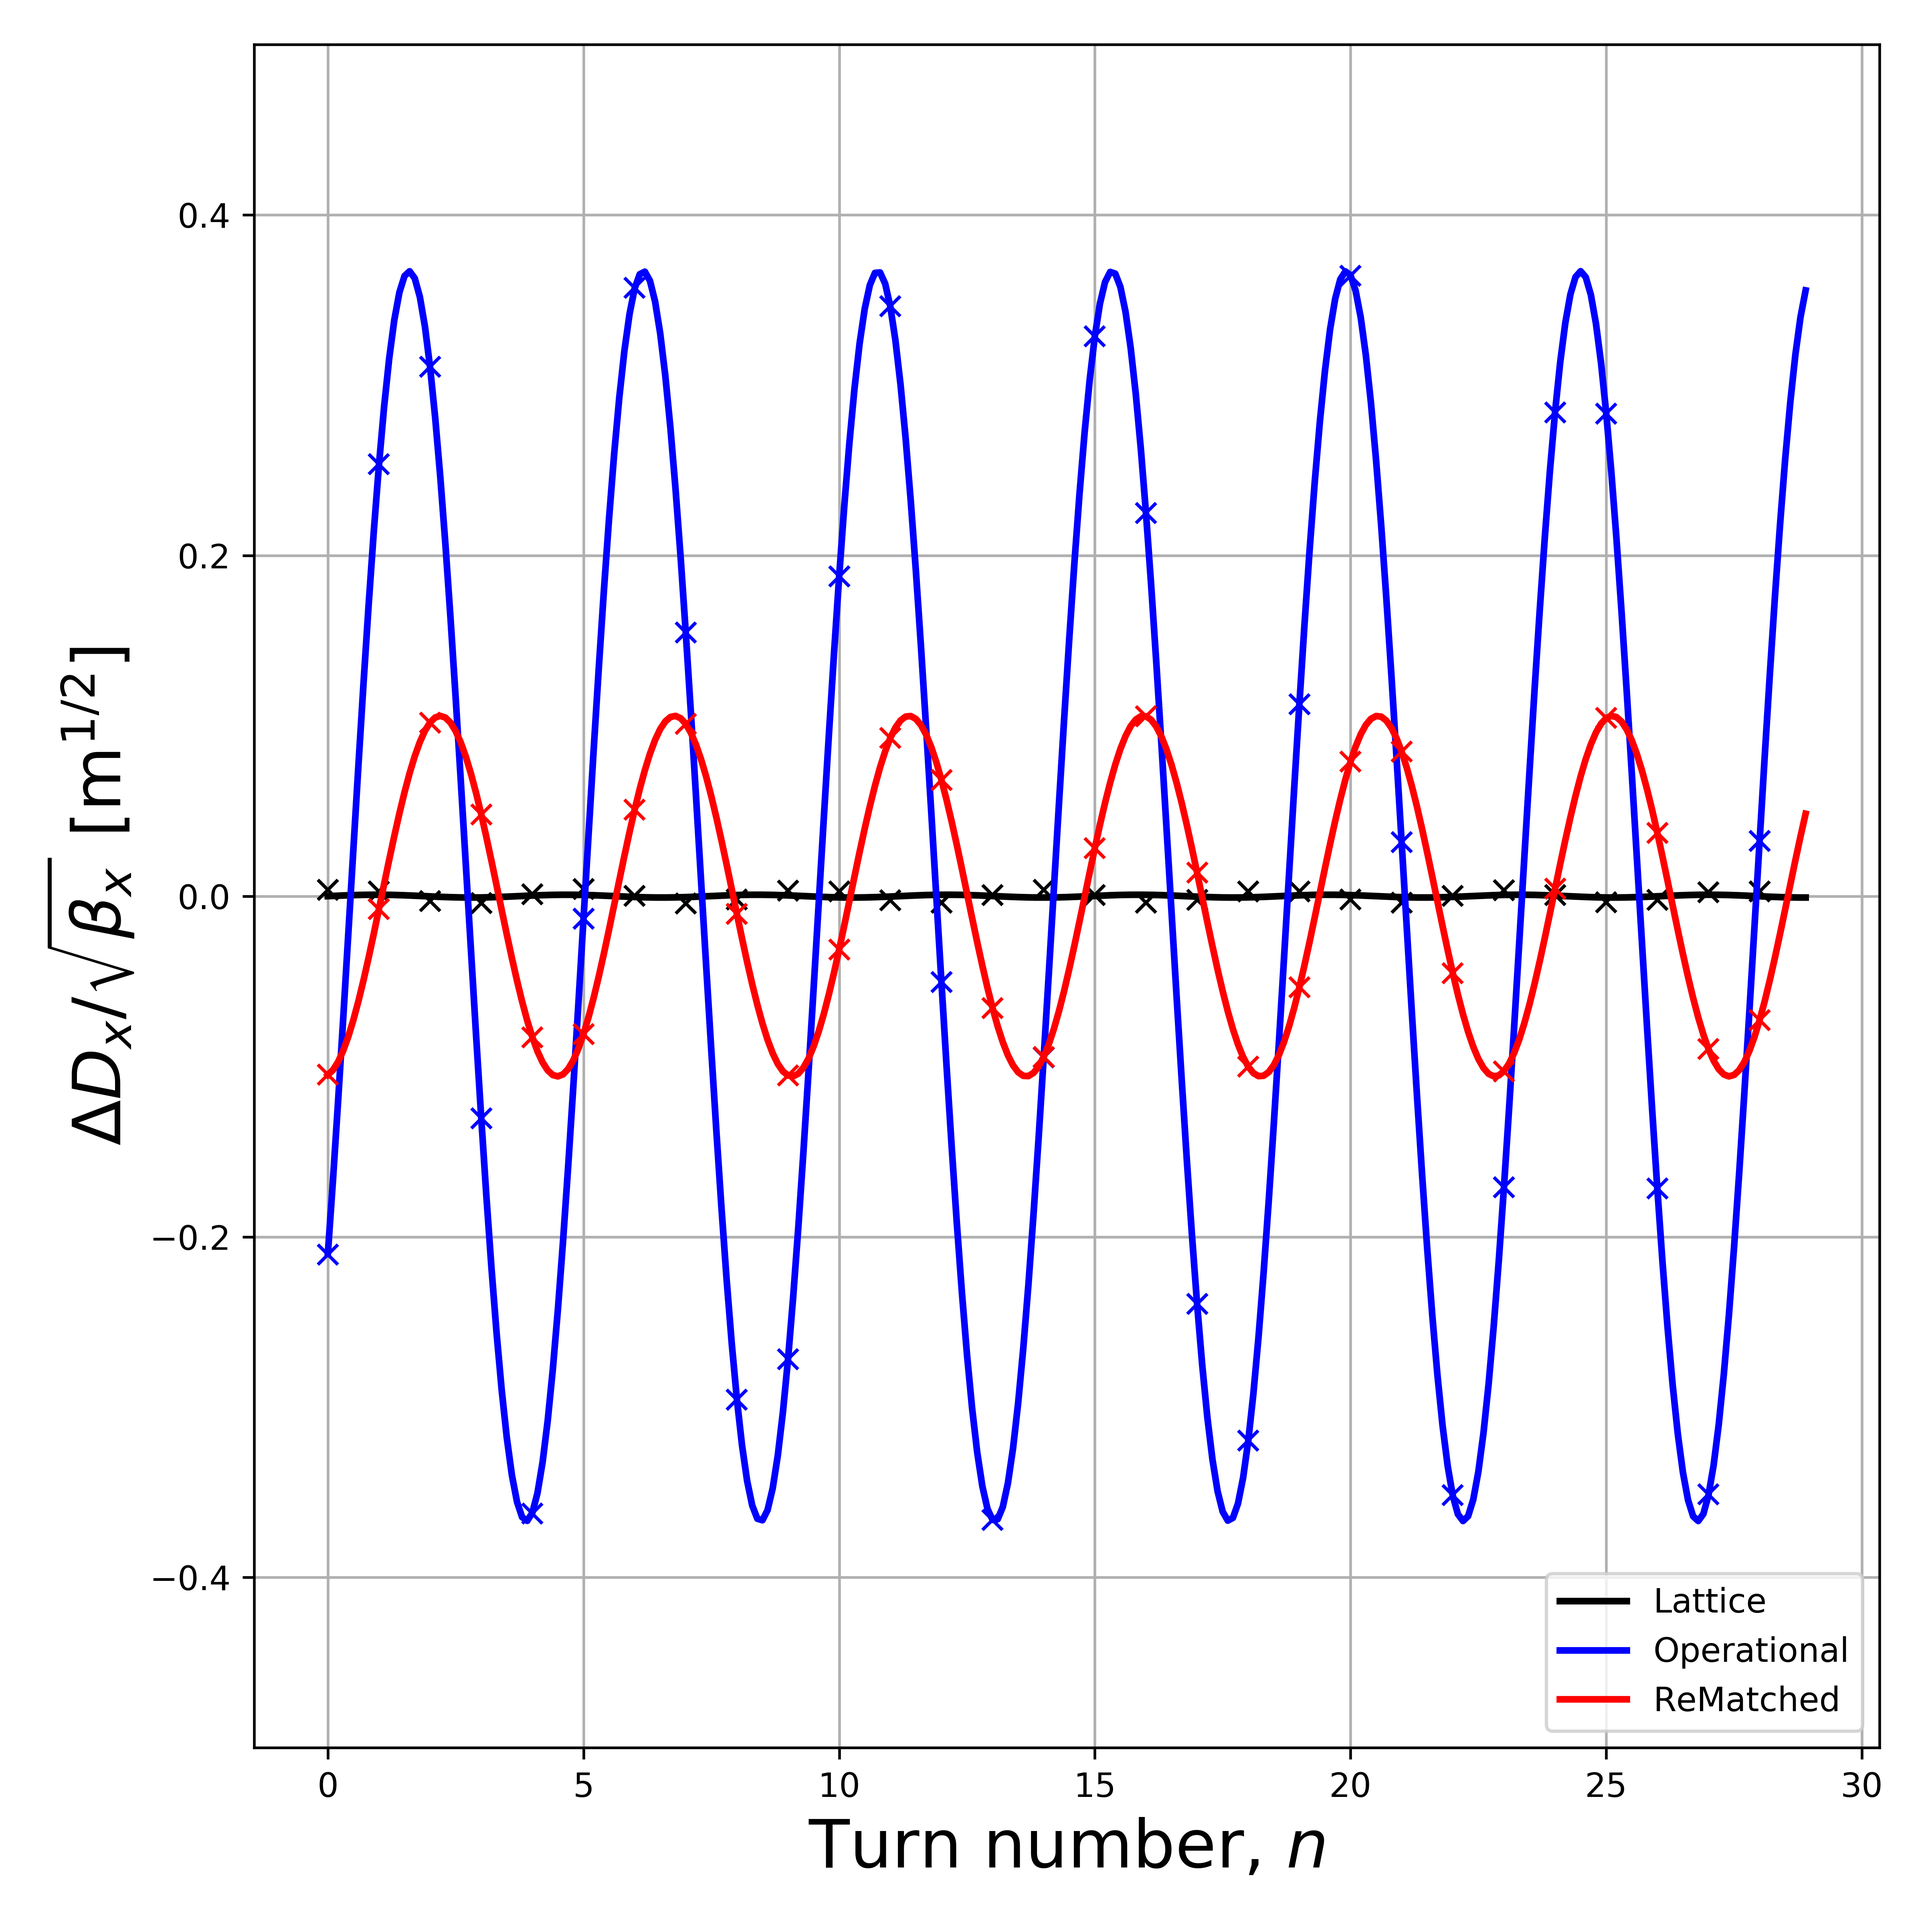
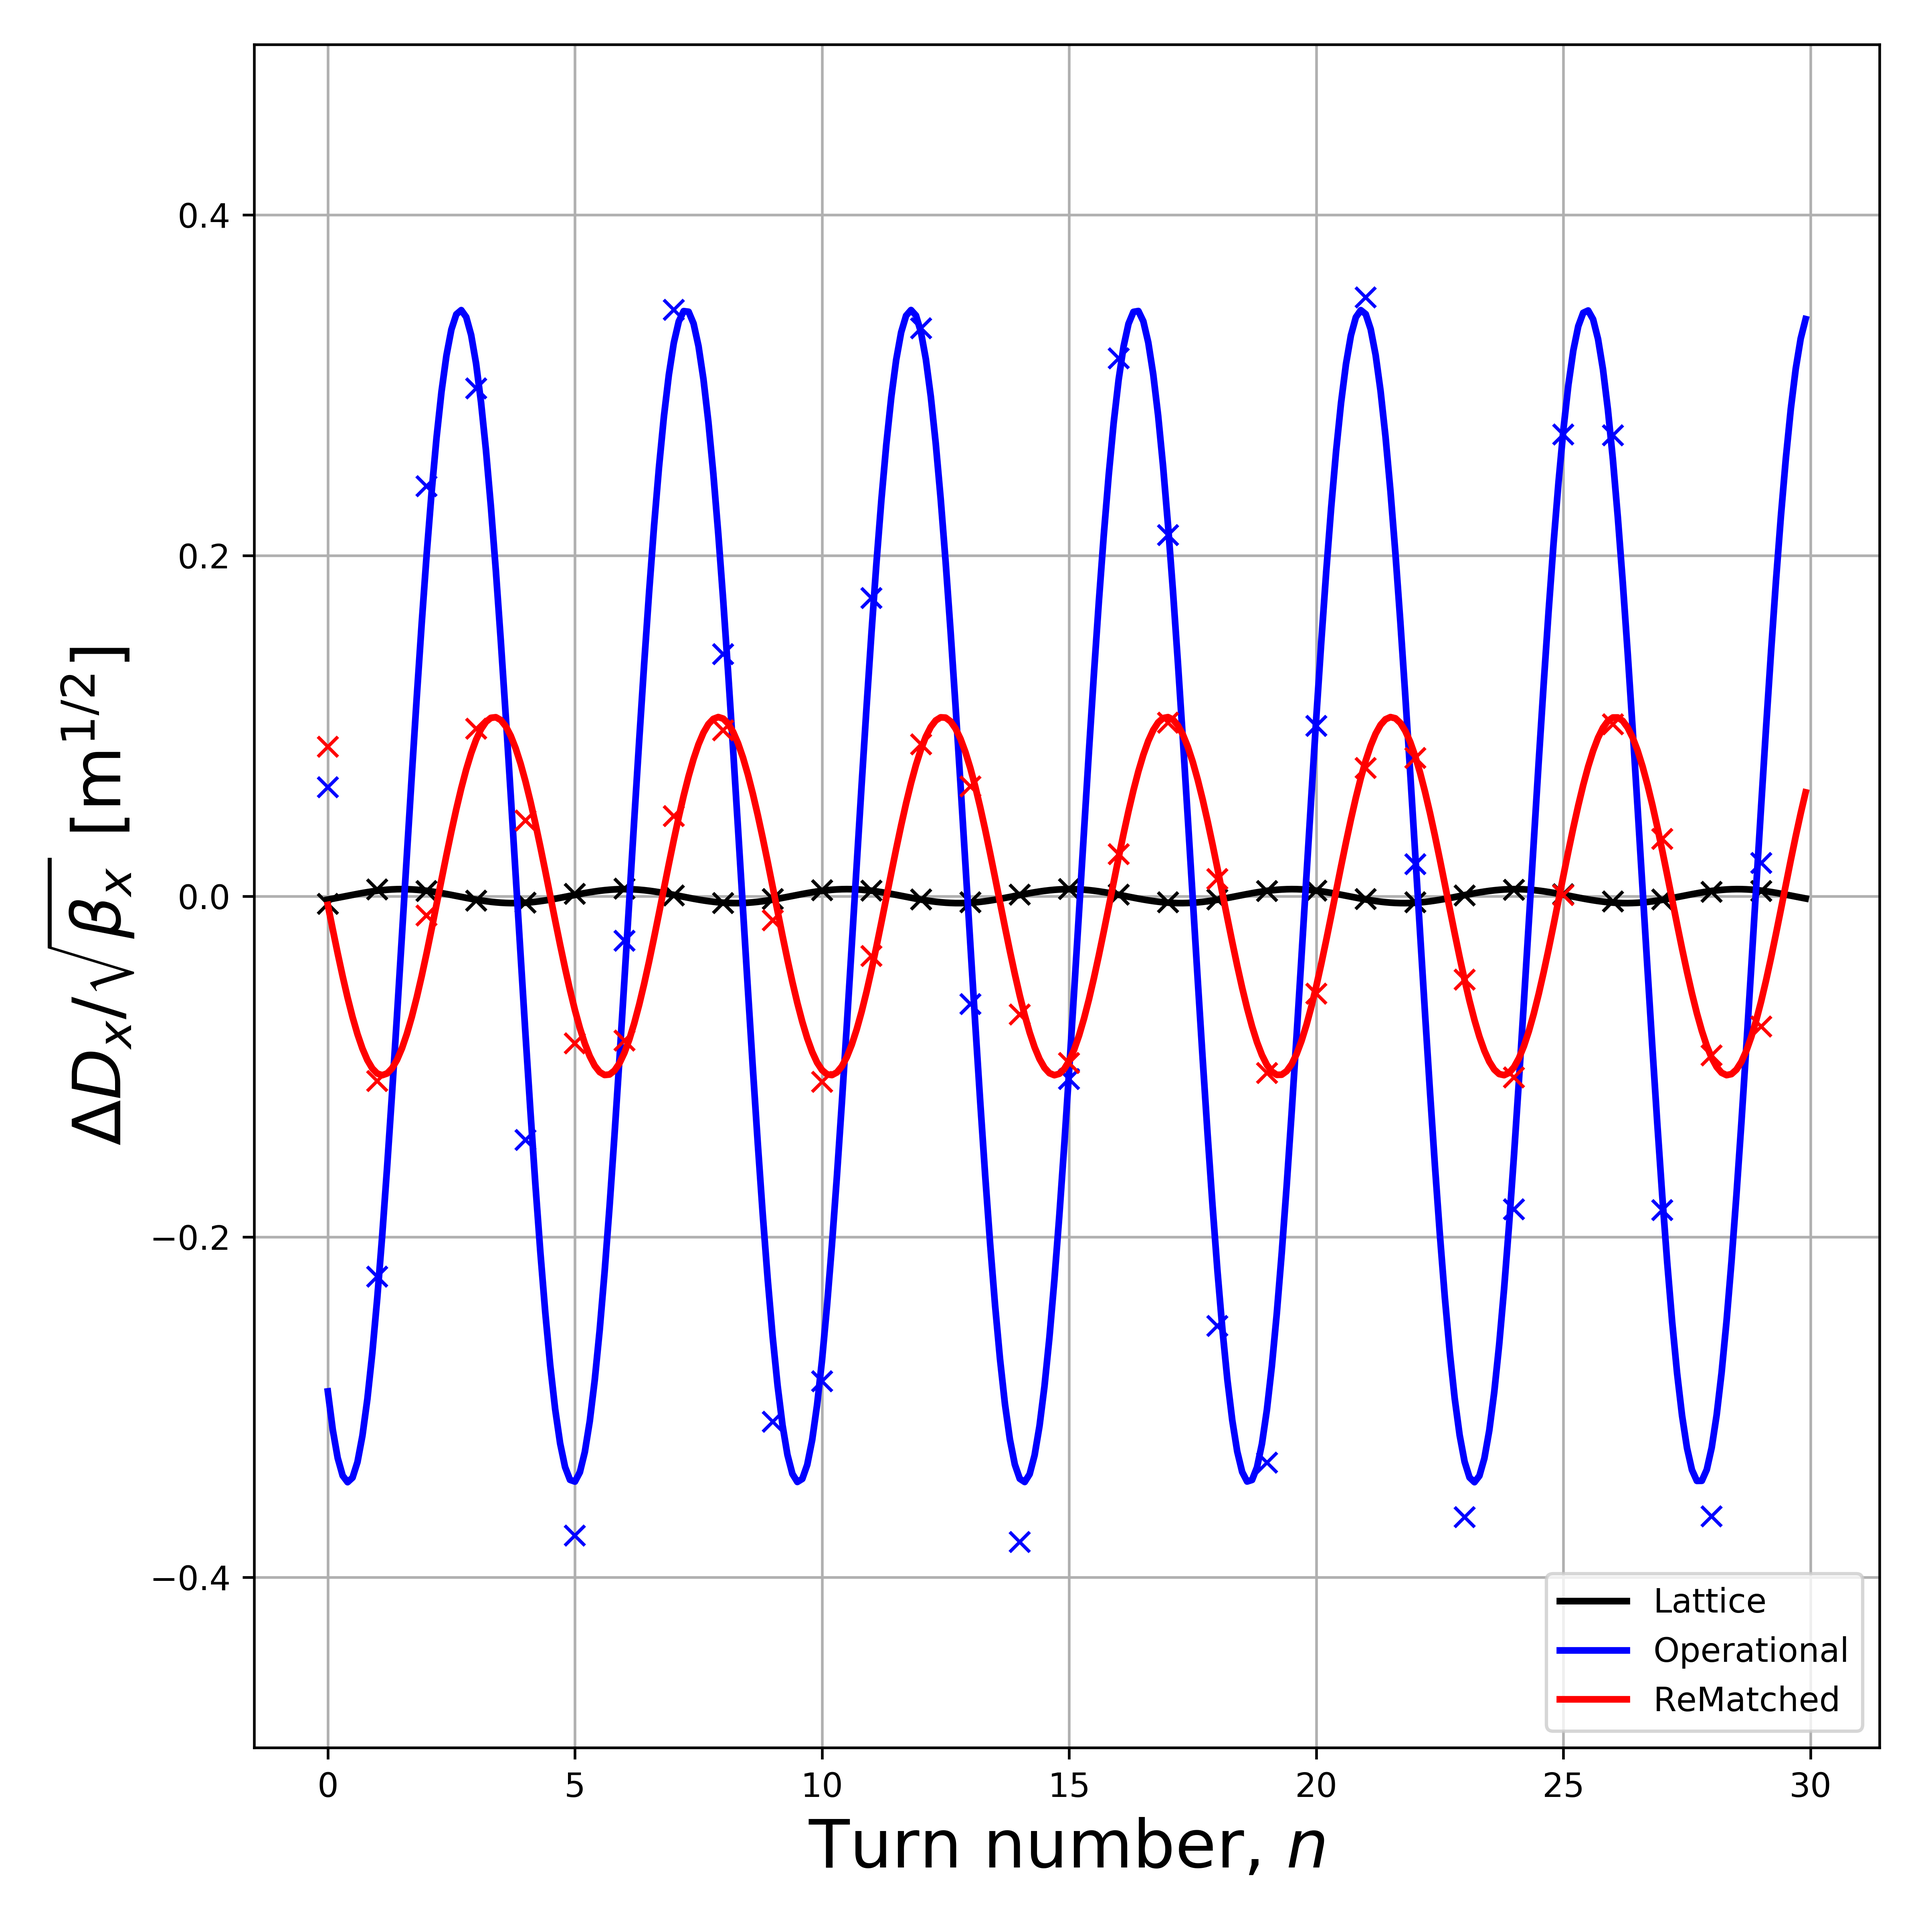
03: test plotting of turn 0

diff --git a/03_New_Distn_Tests/00_Master/simulation_parameters.py b/03_New_Distn_Tests/00_Master/simulation_parameters.py
@@ -40,8 +40,8 @@ c 						= 299792458
 parameters['sig_z'] 	= (parameters['beta'] * c * parameters['blength'])/4.
 
 parameters['turns_max'] = int(30)
-parameters['turns_print'] = range(1, parameters['turns_max'])
-parameters['turns_update'] = range(1, parameters['turns_max'])
+parameters['turns_print'] = range(0, parameters['turns_max'])
+parameters['turns_update'] = range(0, parameters['turns_max'])
 
 switches = {
 	'Optics':		'Operational', #'Rematched', #'Lattice',

diff --git a/03_New_Distn_Tests/01_Lattice_NoSC_NoRF/simulation_parameters.py b/03_New_Distn_Tests/01_Lattice_NoSC_NoRF/simulation_parameters.py
@@ -40,8 +40,8 @@ c 						= 299792458
 parameters['sig_z'] 	= (parameters['beta'] * c * parameters['blength'])/4.
 
 parameters['turns_max'] = int(30)
-parameters['turns_print'] = range(1, parameters['turns_max'])
-parameters['turns_update'] = range(1, parameters['turns_max'])
+parameters['turns_print'] = range(0, parameters['turns_max'])
+parameters['turns_update'] = range(0, parameters['turns_max'])
 
 switches = {
 	'Optics':		'Lattice', #'Rematched', #'Operational',

diff --git a/03_New_Distn_Tests/02_Operational_NoSC_NoRF/simulation_parameters.py b/03_New_Distn_Tests/02_Operational_NoSC_NoRF/simulation_parameters.py
@@ -40,8 +40,8 @@ c 						= 299792458
 parameters['sig_z'] 	= (parameters['beta'] * c * parameters['blength'])/4.
 
 parameters['turns_max'] = int(30)
-parameters['turns_print'] = range(1, parameters['turns_max'])
-parameters['turns_update'] = range(1, parameters['turns_max'])
+parameters['turns_print'] = range(0, parameters['turns_max'])
+parameters['turns_update'] = range(0, parameters['turns_max'])
 
 switches = {
 	'Optics':		'Operational', #'Rematched', #'Lattice',

diff --git a/03_New_Distn_Tests/03_Rematched_NoSC_NoRF/simulation_parameters.py b/03_New_Distn_Tests/03_Rematched_NoSC_NoRF/simulation_parameters.py
@@ -40,8 +40,8 @@ c 						= 299792458
 parameters['sig_z'] 	= (parameters['beta'] * c * parameters['blength'])/4.
 
 parameters['turns_max'] = int(30)
-parameters['turns_print'] = range(1, parameters['turns_max'])
-parameters['turns_update'] = range(1, parameters['turns_max'])
+parameters['turns_print'] = range(0, parameters['turns_max'])
+parameters['turns_update'] = range(0, parameters['turns_max'])
 
 switches = {
 	'Optics':		'Rematched', #'Operational', #'Lattice',
